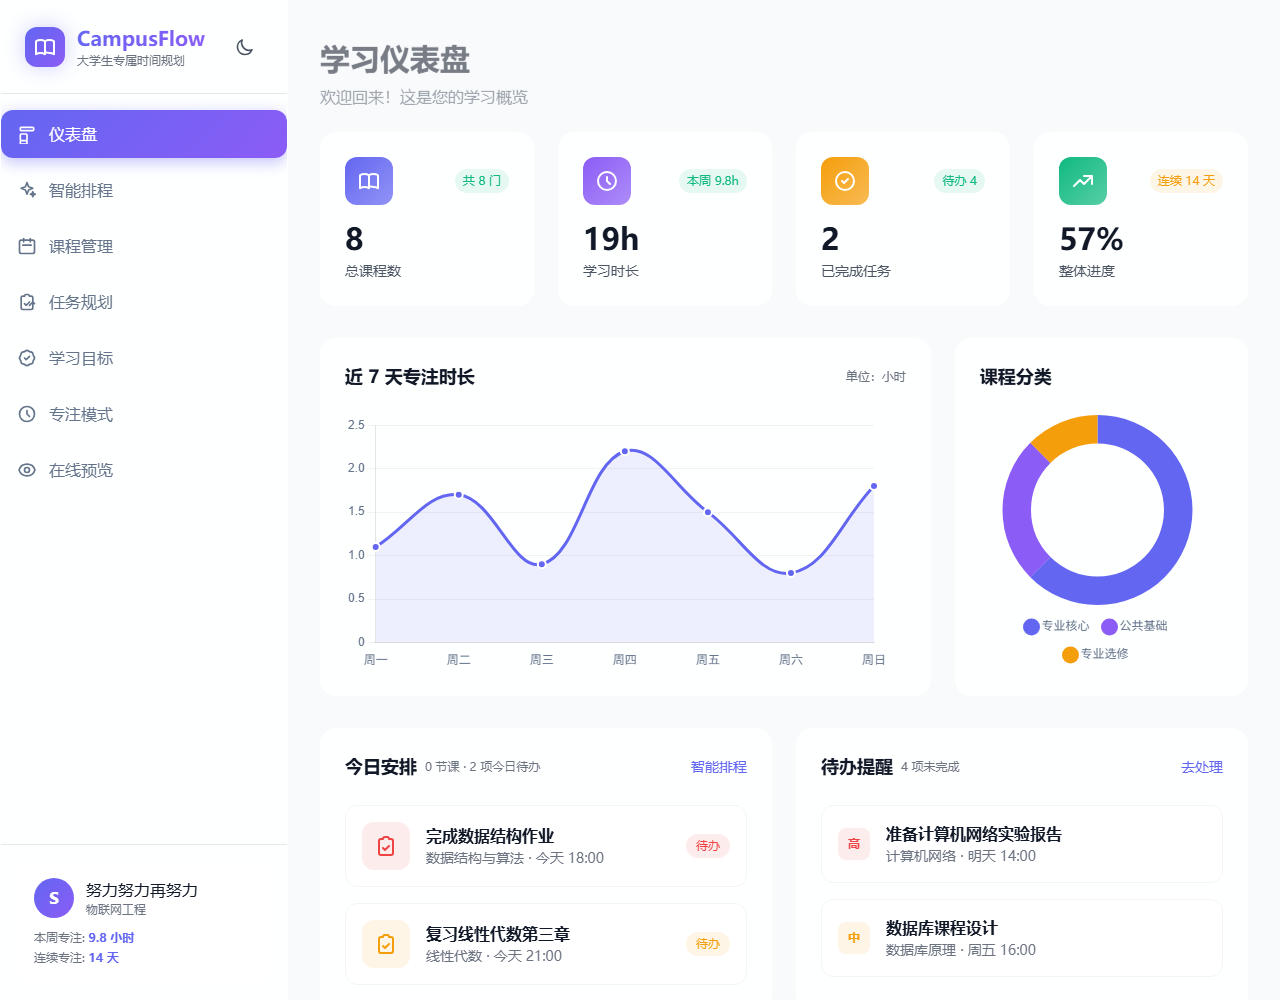
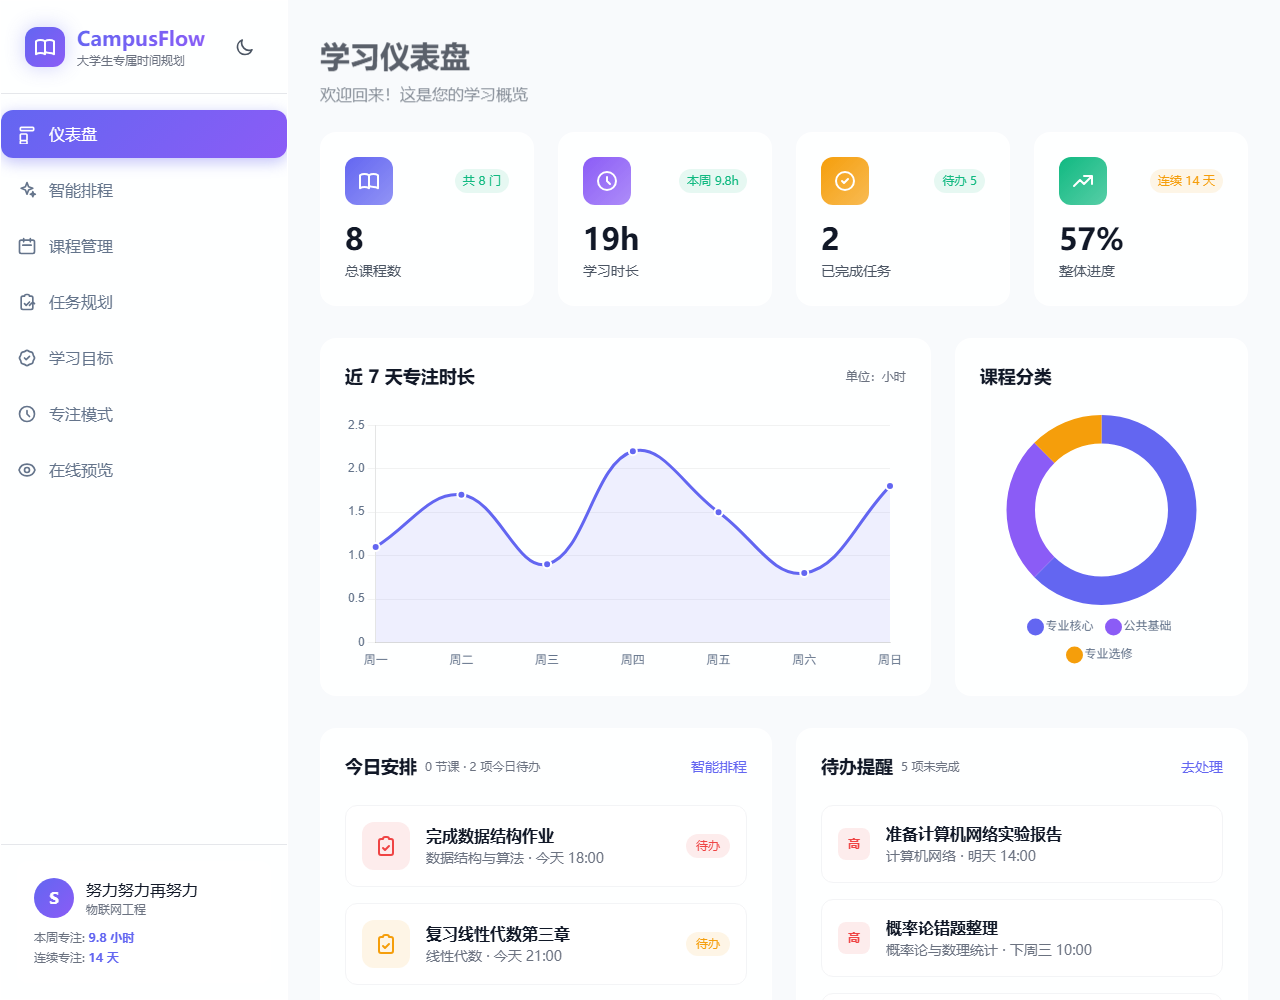
feat: 增加「演示数据」重置能力，录屏与答辩前可一键回到初始状态
- store.js 新增 loadDemo()：清空后用内置示例重建（8 门课 / 7 项任务 / 3 目标 / 14 天专注）
- 支持 URL 参数 ?demo=1，任意页面打开即自动重置
- 仪表盘「数据与隐私」卡片新增「载入演示数据」按钮
- 示例任务补齐四档截止（今天 / 明天 / 本周 / 下周三），覆盖排程三个紧迫度档位，
  打开排程页可得 3 段安排 + 2 项顺延，便于讲解时间不足时的取舍
- README 增加「演示数据」小节；顺带更新界面截图

diff --git a/assets/js/store.js b/assets/js/store.js
@@ -230,11 +230,12 @@
 
   var DEMO_TASKS = [
     { id: 1, title: '完成数据结构作业', course: '数据结构与算法', priority: 'high', dueDate: '今天 18:00', estimate: 50, completed: false },
-    { id: 2, title: '复习线性代数第三章', course: '线性代数', priority: 'medium', dueDate: '今天 21:00', estimate: 50, completed: false },
+    { id: 2, title: '复习线性代数第三章', course: '线性代数', priority: 'medium', dueDate: '今天 21:00', estimate: 25, completed: false },
     { id: 3, title: '准备计算机网络实验报告', course: '计算机网络', priority: 'high', dueDate: '明天 14:00', estimate: 75, completed: false },
     { id: 4, title: '数据库课程设计', course: '数据库原理', priority: 'medium', dueDate: '周五 16:00', estimate: 100, completed: false },
-    { id: 5, title: '阅读软件工程论文', course: '软件工程', priority: 'low', dueDate: '下周', estimate: 25, completed: true },
-    { id: 6, title: '操作系统实验', course: '操作系统', priority: 'high', dueDate: '今天 20:00', estimate: 50, completed: true }
+    { id: 5, title: '概率论错题整理', course: '概率论与数理统计', priority: 'high', dueDate: '下周三 10:00', estimate: 50, completed: false },
+    { id: 6, title: '阅读软件工程论文', course: '软件工程', priority: 'low', dueDate: '下周', estimate: 25, completed: true },
+    { id: 7, title: '操作系统实验', course: '操作系统', priority: 'high', dueDate: '今天 20:00', estimate: 50, completed: true }
   ];
 
   var DEMO_GOALS = [
@@ -325,6 +326,24 @@
     try { localStorage.setItem(KEYS.seeded, '1'); } catch (e) { /* 忽略 */ }
   }
 
+  /**
+   * 载入演示数据：先清空再用内置示例重建，得到一份可复现的干净数据。
+   * 录屏与答辩演示时用它把状态拉到同一初始点，避免"上次录到一半改过的数据"。
+   * 也支持 URL 参数：任意页面加 ?demo=1 打开即自动执行一次。
+   */
+  function loadDemo() {
+    [KEYS.courses, KEYS.tasks, KEYS.goals, KEYS.focusHistory, KEYS.focusStats, KEYS.settings, 'learningGoals'].forEach(function (k) {
+      try { localStorage.removeItem(k); } catch (e) { /* 忽略 */ }
+    });
+    try { localStorage.removeItem(KEYS.seeded); } catch (e) { /* 忽略 */ }
+    var ok = write(KEYS.courses, DEMO_COURSES)
+      && write(KEYS.tasks, DEMO_TASKS)
+      && write(KEYS.goals, DEMO_GOALS)
+      && write(KEYS.focusHistory, demoFocusHistory());
+    try { localStorage.setItem(KEYS.seeded, '1'); } catch (e) { /* 忽略 */ }
+    return ok;
+  }
+
   /* --------------------------------- 通用 UI --------------------------------- */
 
   /** 转义 HTML，所有用户输入渲染到页面时都必须经过它 */
@@ -362,6 +381,7 @@
     todayCourses: todayCourses,
     attentionCourses: attentionCourses,
     seedIfEmpty: seedIfEmpty,
+    loadDemo: loadDemo,
     exportAll: exportAll,
     importAll: importAll,
     clearAll: clearAll,
@@ -369,6 +389,11 @@
     todayKey: todayKey,
     WEEK_CN: WEEK_CN
   };
+
+  // ?demo=1：打开任意页面即把数据重置为演示状态（录屏 / 答辩前用一次即可）
+  try {
+    if (/[?&]demo=1(?:&|$)/.test(location.search)) loadDemo();
+  } catch (e) { /* 忽略 */ }
 
   /* ------------------------------ 侧边栏统计口径 ----------------------------- */
 

diff --git a/index.html b/index.html
@@ -292,6 +292,7 @@
             <div class="flex items-center gap-2 flex-shrink-0 flex-wrap">
               <button onclick="exportBackup()" class="px-4 py-2 text-sm font-medium rounded-xl bg-primary/10 text-primary hover:bg-primary/20 transition-colors">导出备份</button>
               <button onclick="triggerImport()" class="px-4 py-2 text-sm font-medium rounded-xl bg-gray-100 dark:bg-gray-700 text-gray-700 dark:text-gray-300 hover:bg-gray-200 dark:hover:bg-gray-600 transition-colors">导入备份</button>
+              <button onclick="loadDemoData()" class="px-4 py-2 text-sm font-medium rounded-xl bg-gray-100 dark:bg-gray-700 text-gray-700 dark:text-gray-300 hover:bg-gray-200 dark:hover:bg-gray-600 transition-colors">载入演示数据</button>
               <button onclick="clearAllData()" class="px-4 py-2 text-sm font-medium rounded-xl bg-danger/10 text-danger hover:bg-danger/20 transition-colors">清空数据</button>
             </div>
           </div>
@@ -661,6 +662,21 @@
       if (!ok) return;
       CF.clearAll();
       location.reload();
+    }
+
+    /**
+     * 载入演示数据：把数据拉回同一初始点（8 门课 / 7 项任务 / 3 个目标 / 14 天专注记录）。
+     * 录屏、答辩演示前点一次即可，避免"上一次演示改过的数据"留在页面里。
+     * 也可以用 URL 参数跳过这一步：任意页面后加 ?demo=1 打开即自动重置。
+     */
+    function loadDemoData() {
+      var ok = confirm('将清空当前数据并载入内置示例数据：\n8 门课程 / 7 项任务 / 3 个学习目标 / 14 天专注记录。\n\n此操作不可撤销，建议先导出备份。确定继续？');
+      if (!ok) return;
+      if (CF.loadDemo()) {
+        location.reload();
+      } else {
+        toast('载入失败：本地存储可能已满，请先导出备份再清理空间');
+      }
     }
 
     /* ---------------------------------- 基础 ---------------------------------- */
